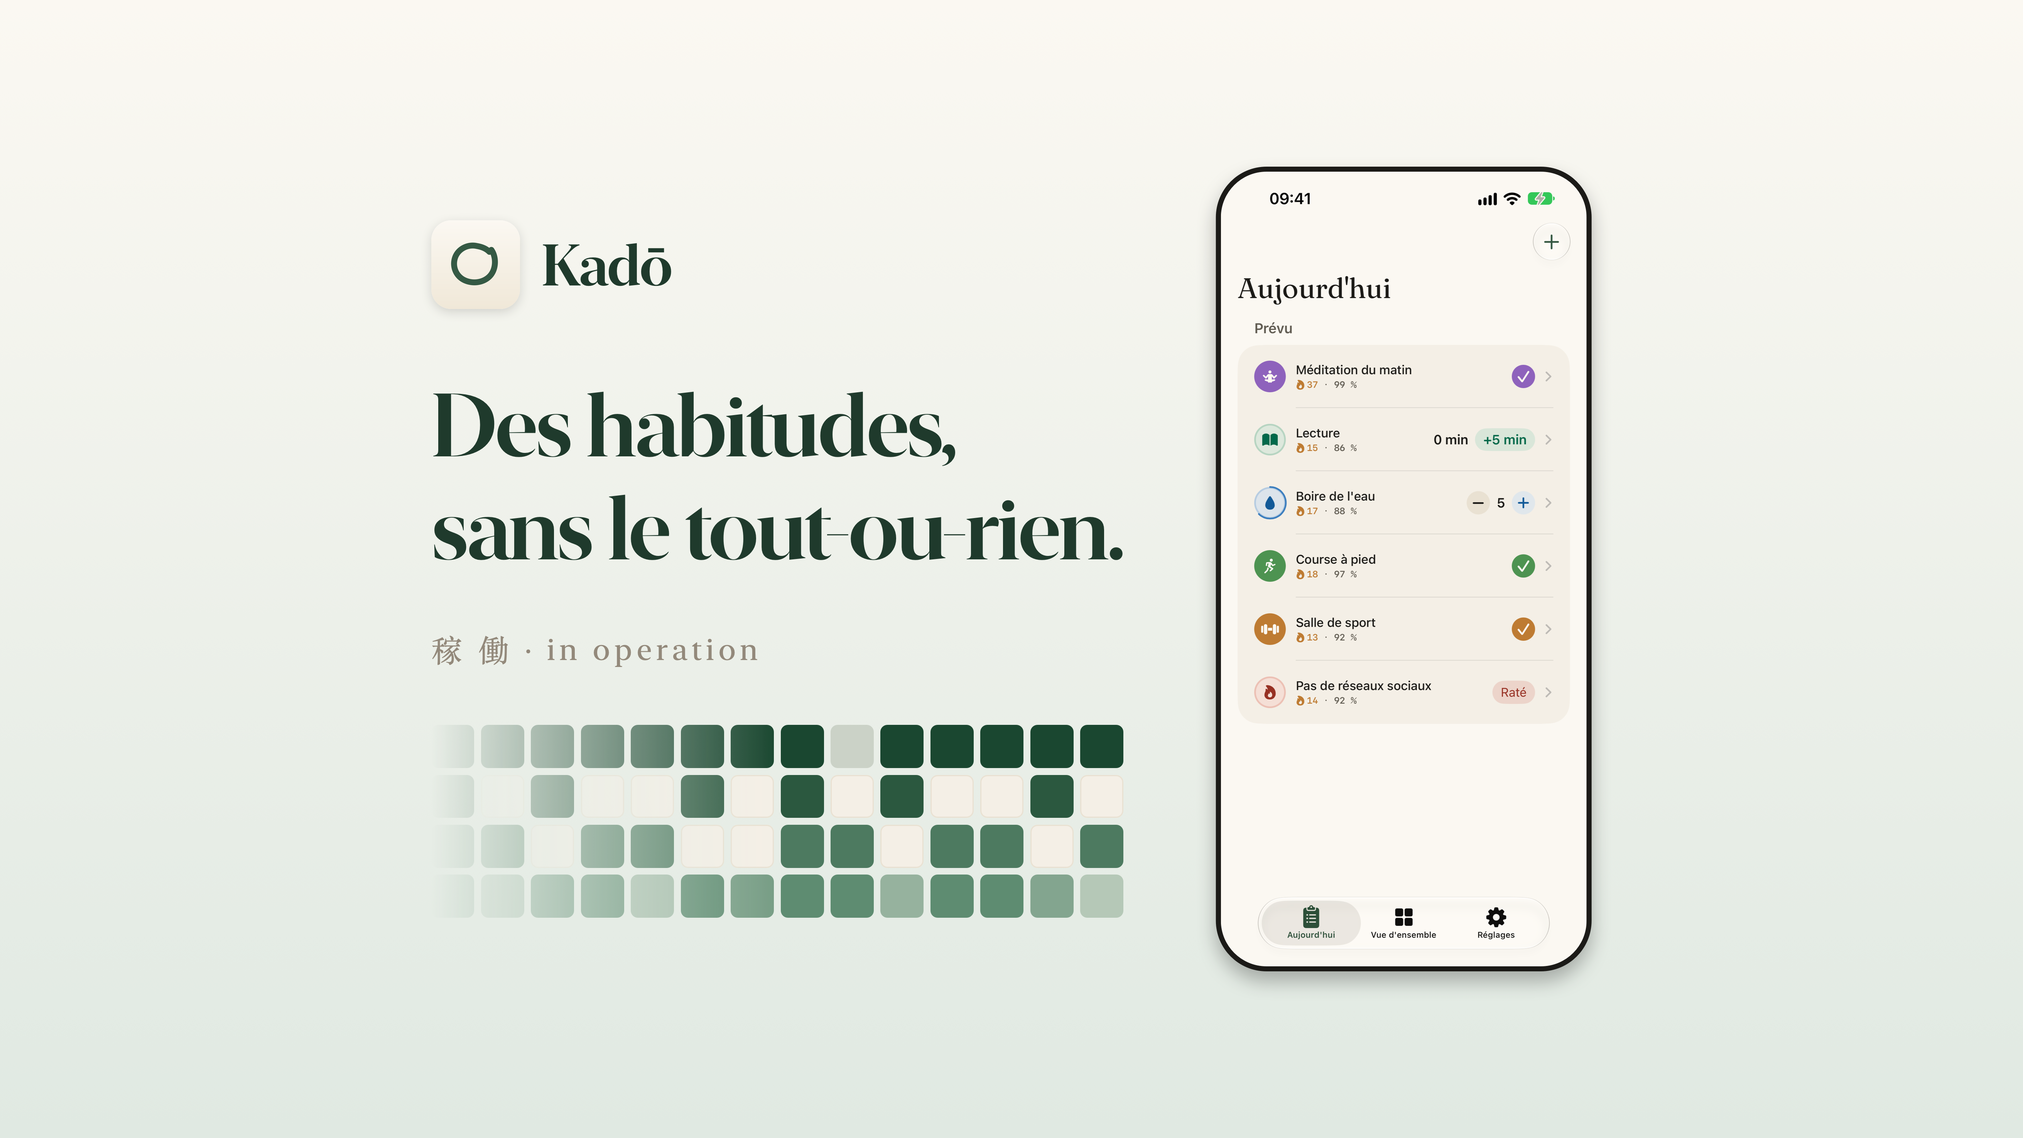
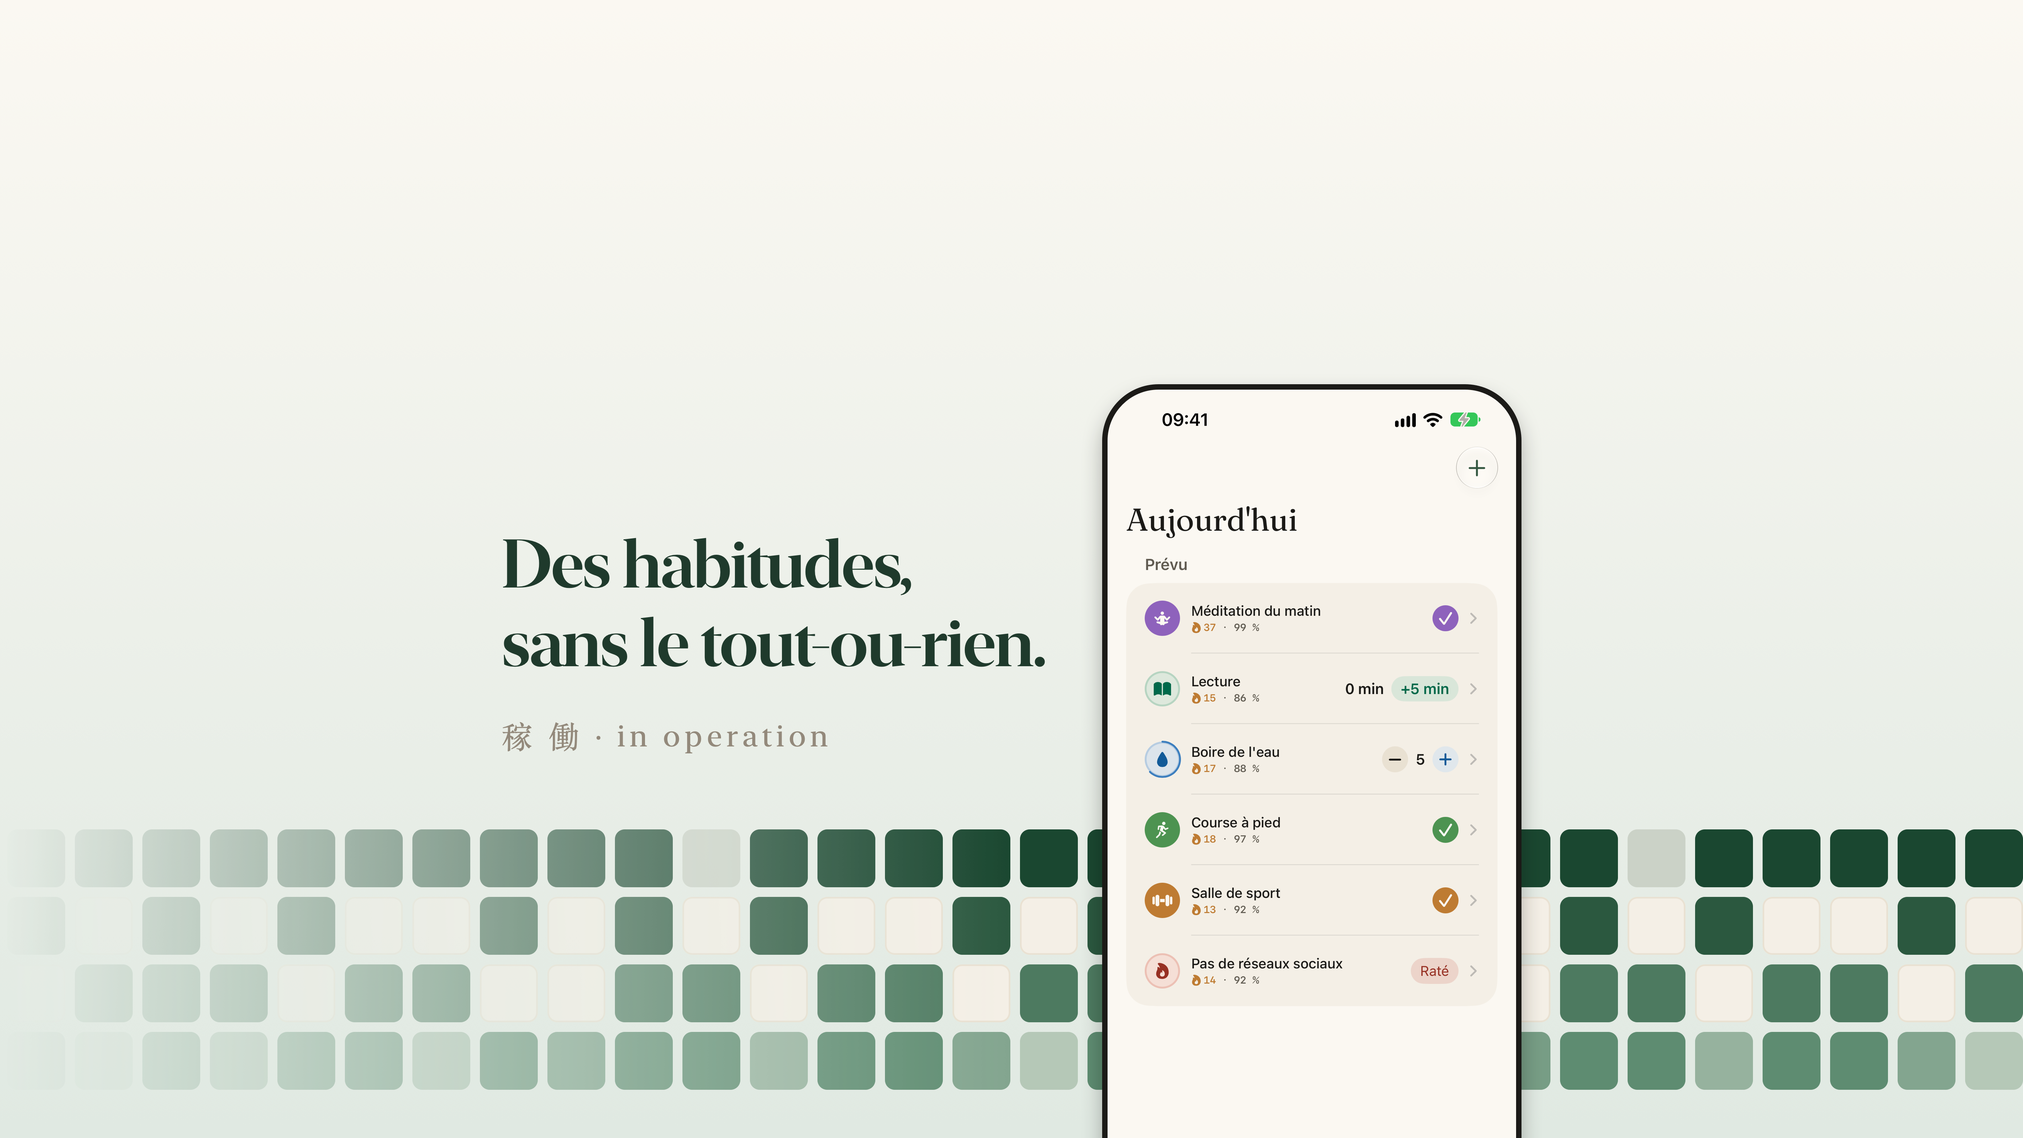
fix(listing): lay the creative out against the crops App Store Connect actually shows
The Preview tool showed the guessed 60% x 75% safe band was wrong for both
placements: search shows the whole 16:9 small, and the iPhone header shows
only a centred ~54% x 64% window whose top is under the status bar and the
back/share buttons. The header lost the headline's first letter and put
the icon lockup under the back button.

The headline now starts below the buttons inside the window's left edge,
the phone stays inside its right edge and runs off the bottom, the grid
becomes a full-width band behind both so the search placement is filled,
and the redundant icon + name lockup is gone.

Refs #131

Changed region(s): [[0.0622, 0.1247, 1.0, 1.0], [0.2176, 0.3431, 0.4662, 0.4054], [0.2176, 0.2183, 0.3419, 0.2495]]

diff --git a/Scripts/frame-screenshots.swift b/Scripts/frame-screenshots.swift
@@ -441,18 +441,31 @@ func assemble(
 // MARK: - The creative asset
 //
 // iOS 27 gives a listing two landscape slots — a header across the top of the product page and
-// a creative in search results — and one 16:9 image fills both. Apple crops it to roughly 21:9
-// for the header and roughly 3:2 for search and publishes no numbers, so everything that has to
-// survive both crops sits in `safe`, a centred band assumed to be 60% of the width and 75% of
-// the height. The ground runs edge to edge under it; nothing else is allowed outside.
+// a creative in search results — and one 16:9 image fills both. Apple publishes no crops, and
+// the two turned out to want opposite things (measured in App Store Connect's Preview tool, not
+// guessed — the first cut guessed, and lost its first letter and its logo to the header):
+//
+// - **Search results** show the whole 16:9, about 615pt wide. Whatever sits in the middle
+//   alone looks small there, so the ground has to carry something edge to edge.
+// - **The product page header**, on an iPhone, shows only a centred 3:2 window, ~54% of the
+//   width by ~64% of the height (`header`), and its top fifth sits under the status bar and the
+//   Dynamic Island, with the back and share buttons over its top corners (`headerTop`).
+//
+// So everything that must be read — the headline, the phone's screen — lives inside `header`
+// and below `headerTop`, and the grid runs the full width behind it for the search placement.
 
 enum Creative {
     /// App Store Connect's universal creative canvas: 16:9, and refused at any other size.
     static let canvas = NSSize(width: 5244, height: 2950)
-    static let safe = NSRect(
-        x: canvas.width * 0.2, y: canvas.height * 0.125,
-        width: canvas.width * 0.6, height: canvas.height * 0.75
-    )
+    /// The iPhone product page header's window onto the canvas, measured from the Preview tool:
+    /// x 1197–4047, y 531–2419 counting from the top.
+    static let header = (minX: CGFloat(1197), maxX: CGFloat(4047), top: CGFloat(531), bottom: CGFloat(2419))
+    /// Where the header stops being under the status bar (a band across its whole width)…
+    static let headerTop: CGFloat = 950
+    /// …and under its back and share buttons, two circles over its top corners that reach
+    /// further down: x 1311–1653 and 3591–3933. Text starts below this; the phone's own status
+    /// bar row may sit under the share button, which is where it sits on the Home Screen too.
+    static let headerButtonsBottom: CGFloat = 1305
 
     /// The capture the device shows — read out of each locale's captures, so the French
     /// creative shows the French app.
@@ -464,30 +477,34 @@ enum Creative {
 
     /// The phone's screen height. Its width follows the capture, and the bezel, corner and
     /// shadow follow the portrait iPhone frame in proportion, so the two read as one device.
-    static let screenHeight: CGFloat = 2060
+    /// Taller than the canvas has room for, on purpose: the phone starts just under `headerTop`
+    /// and runs off the bottom edge, which is what the header would do to it anyway, and done
+    /// deliberately it reads as a phone held up to the frame rather than one that didn't fit.
+    static let screenHeight: CGFloat = 2300
+    static let screenTop: CGFloat = 1010
+    /// The screen's right edge, inside the header window's by about a bezel and a shadow.
+    static let screenRight: CGFloat = 3930
+
+    /// The headline's left edge, inside the header window's, and its top, under the back button.
+    static let headlineLeft: CGFloat = 1300
+    static let headlineTop: CGFloat = headerButtonsBottom + 55
     static let headlineSize: CGFloat = 230
     /// Between the end of the headline's longest line and the phone.
-    static let gap: CGFloat = 240
-
-    /// The lockup over the headline: the icon and the name, so a banner seen in search results
-    /// says whose it is before it says anything else.
-    static let appName = "Kadō"
-    static let nameSize: CGFloat = 150
-    static let iconSize: CGFloat = 230
-    static let iconGap: CGFloat = 56
-    static let lockupGap: CGFloat = 170
-    /// The app's default icon, the one a first-time visitor sees beside the listing.
-    static let icon = NSImage(
-        contentsOfFile: "Kado/Resources/Assets.xcassets/AppIcon.appiconset/AppIcon.png"
-    )
+    static let gap: CGFloat = 180
 
     /// The sign-off at the foot of Settings, under the headline. Verbatim, as `SettingsView`
     /// draws it — 稼働 is brand art, not a phrase, and the app doesn't translate it either.
     static let wordmark = "稼 働 · in operation"
     static let wordmarkSize: CGFloat = 80
-    static let wordmarkGap: CGFloat = 130
-    /// From the wordmark down to the Overview grid that closes the column. See `Matrix`.
-    static let matrixGap: CGFloat = 150
+    static let wordmarkGap: CGFloat = 90
+
+    /// The Overview grid's band, the full width of the canvas: its top, and its cell in pixels.
+    /// Big enough to read as habit days in a 615pt search result, where the whole frame shows.
+    static let matrixTop: CGFloat = 2150
+    static let matrixCell: CGFloat = 150
+
+    // No icon and no name: both placements already draw the app's icon and name right beside
+    // the creative, and the first cut's lockup landed under the header's back button.
 }
 
 // MARK: - The Overview matrix, in monochrome
@@ -557,9 +574,10 @@ struct MonochromeHabit {
 /// A day in a row: a score in 0…1, or nil for a day the habit wasn't due.
 typealias MatrixDay = Double?
 
-/// Two weeks of four of the screenshot seed's habits, by their colour slots. Hand-set, not
-/// computed: mostly done, some partial, one plain miss, and the scheduled habits' off days —
-/// a grid that looks lived in and makes the headline's point, that a gap isn't a zero.
+/// Two weeks of four of the screenshot seed's habits, by their colour slots, repeated back in
+/// time to fill the band. Hand-set, not computed: mostly done, some partial, one plain miss a
+/// fortnight, and the scheduled habits' off days — a grid that looks lived in and makes the
+/// headline's point, that a gap isn't a zero.
 let creativeMatrix: [(slot: Int, days: [MatrixDay])] = [
     // No social media (red): daily, one slip.
     (0, [1, 1, 1, 1, 1, 1, 1, 1, 0, 1, 1, 1, 1, 1]),
@@ -581,24 +599,19 @@ enum Matrix {
     /// How much of the grid's width, from the left, the fade-in takes.
     static let fadeLength: CGFloat = 0.5
 
-    /// The grid's height when its width is `width`.
-    static func height(width: CGFloat) -> CGFloat {
-        let columns = CGFloat(creativeMatrix[0].days.count)
-        let rows = CGFloat(creativeMatrix.count)
-        let scale = width / (columns * cell + (columns - 1) * spacing)
-        return (rows * cell + (rows - 1) * spacing) * scale
-    }
-
-    /// Draws the grid with its top-left corner at `origin`, `width` wide.
-    static func draw(at origin: NSPoint, width: CGFloat) {
-        let columns = CGFloat(creativeMatrix[0].days.count)
-        let scale = width / (columns * cell + (columns - 1) * spacing)
-        let size = cell * scale
+    /// Draws the grid as a band across `minX…maxX` with its top at `top`, cells `size` pixels.
+    ///
+    /// As many days as fit, the most recent at the right edge — so the band reads as the
+    /// Overview's grid, today last — and each row's two weeks repeated back in time from there.
+    static func draw(minX: CGFloat, maxX: CGFloat, top: CGFloat, size: CGFloat) {
+        let scale = size / cell
         let step = (cell + spacing) * scale
         let radius = corner * scale
-        let bounds = NSRect(
-            x: origin.x, y: origin.y - height(width: width), width: width, height: height(width: width)
-        )
+        let columns = Int(((maxX - minX) + spacing * scale) / step)
+        let rows = CGFloat(creativeMatrix.count)
+        let height = rows * size + (rows - 1) * spacing * scale
+        let bounds = NSRect(x: minX, y: top - height, width: maxX - minX, height: height)
+        let origin = NSPoint(x: maxX - CGFloat(columns) * step + spacing * scale, y: top)
 
         // The grid fades out to the left, into the paper: older days recede, the way the
         // Overview's own grid runs off the screen's leading edge. Drawn into a layer and then
@@ -625,7 +638,11 @@ enum Matrix {
 
         for (row, habit) in creativeMatrix.enumerated() {
             let sage = MonochromeHabit(slot: habit.slot)
-            for (column, day) in habit.days.enumerated() {
+            let pattern = habit.days
+            for column in 0..<columns {
+                // Counted back from the right edge, so the last column is the pattern's last day.
+                let back = columns - 1 - column
+                let day = pattern[(pattern.count - 1 - back % pattern.count)]
                 let rect = NSRect(
                     x: origin.x + CGFloat(column) * step,
                     y: origin.y - CGFloat(row) * step - size,
@@ -665,81 +682,55 @@ func wordmark(_ text: String, size: CGFloat) -> NSAttributedString {
     )
 }
 
-/// The universal creative: a left-aligned headline and the Today screen in a phone, centred as
-/// one group in the safe band.
+/// The universal creative: the headline and the Settings wordmark on the left and the Today
+/// screen in a phone on the right, both inside the header window, over a full-width band of
+/// the Overview grid that fades out to the left.
 ///
 /// The phone alone, on purpose. A mock with two widget tiles leaning on its edge
 /// (`docs/plans/2026-10/listing-creative/`) repeated the list's own rows at a smaller size and
 /// covered the one marked "Slipped" — the row that *is* the headline's claim.
 func creative(capture: NSImage, caption: String, palette: Palette) -> NSBitmapImageRep {
     let canvas = Creative.canvas
-    let safe = Creative.safe
     let iphone = Profile.named(Creative.device)!
     let screenHeight = Creative.screenHeight
     let screenWidth = (screenHeight * capture.size.width / capture.size.height).rounded()
     let bezel = (iphone.bezel * screenWidth / (iphone.canvas.width * iphone.screenWidthFraction))
         .rounded()
+    // The context is unflipped; the layout constants count from the top, like the measurements.
+    let fromTop = { (y: CGFloat) in canvas.height - y }
 
     return ground(canvas, palette: palette) {
-        let lines = caption.components(separatedBy: "\n")
-        let phoneWidth = screenWidth + bezel * 2
-        let headlineSize = fitted(
-            lines, size: Creative.headlineSize, color: palette.headline,
-            within: safe.width - Creative.gap - phoneWidth
+        // The grid first, so the phone stands in front of it.
+        Matrix.draw(
+            minX: 0, maxX: canvas.width, top: fromTop(Creative.matrixTop),
+            size: Creative.matrixCell
         )
-        let texts = lines.map { attributed($0, size: headlineSize, color: palette.headline) }
-        let name = attributed(Creative.appName, size: Creative.nameSize, color: palette.headline)
-        let mark = wordmark(Creative.wordmark, size: Creative.wordmarkSize)
-        let iconSize = Creative.iconSize
-        let lockupWidth = iconSize + Creative.iconGap + name.size().width
-        let columnWidth = max(
-            texts.map { $0.size().width }.max() ?? 0, lockupWidth, mark.size().width
-        )
-
-        // The text column, three tiers stacked top-down and centred as a block against the
-        // phone: who it is, what it believes, and the app's own sign-off from the foot of
-        // Settings.
-        let lineHeight = headlineSize * 1.16
-        let headlineHeight = lineHeight * CGFloat(lines.count)
-        let markHeight = mark.size().height
-        let matrixHeight = Matrix.height(width: columnWidth)
-        let columnHeight = iconSize + Creative.lockupGap + headlineHeight
-            + Creative.wordmarkGap + markHeight + Creative.matrixGap + matrixHeight
-
-        // One group, centred: the crops are centred, so a group that is centred survives both
-        // of them by the same margin on either side.
-        let left = ((canvas.width - columnWidth - Creative.gap - phoneWidth) / 2).rounded()
-        var top = ((canvas.height + columnHeight) / 2).rounded()
-
-        if let icon = Creative.icon {
-            let rect = NSRect(x: left, y: top - iconSize, width: iconSize, height: iconSize)
-            // The icon's own corner, as the Home Screen masks it. The PNG is square; iOS
-            // supplies the shape.
-            let radius = iconSize * 0.2237
-            slab(rect, radius: radius, color: palette.top, shadowOffset: 8, shadowBlur: 28, shadowAlpha: 0.14)
-            draw(icon, in: rect, radius: radius)
-        }
-        // The name's cap height centred on the icon, not its line box, which carries the
-        // descender space a word with no descenders doesn't use.
-        let font = headlineFont(Creative.nameSize)
-        let nameBaseline = top - iconSize / 2 - font.capHeight / 2
-        name.draw(at: NSPoint(x: left + iconSize + Creative.iconGap, y: nameBaseline + font.descender))
-        top -= iconSize + Creative.lockupGap
-
-        for (index, text) in texts.enumerated() {
-            text.draw(at: NSPoint(x: left, y: top - lineHeight * CGFloat(index + 1)))
-        }
-        top -= headlineHeight + Creative.wordmarkGap
-        mark.draw(at: NSPoint(x: left, y: top - markHeight))
-        top -= markHeight + Creative.matrixGap
-        Matrix.draw(at: NSPoint(x: left, y: top), width: columnWidth)
 
         let screen = NSRect(
-            x: left + columnWidth + Creative.gap + bezel,
-            y: ((canvas.height - screenHeight) / 2).rounded(),
+            x: Creative.screenRight - screenWidth,
+            y: fromTop(Creative.screenTop) - screenHeight,
             width: screenWidth,
             height: screenHeight
         )
+
+        // The headline, left-aligned from inside the header window's left edge, sized to stop
+        // `gap` short of the phone.
+        let lines = caption.components(separatedBy: "\n")
+        let headlineSize = fitted(
+            lines, size: Creative.headlineSize, color: palette.headline,
+            within: screen.minX - bezel - Creative.gap - Creative.headlineLeft
+        )
+        let lineHeight = headlineSize * 1.16
+        var top = fromTop(Creative.headlineTop)
+        for line in lines {
+            top -= lineHeight
+            attributed(line, size: headlineSize, color: palette.headline)
+                .draw(at: NSPoint(x: Creative.headlineLeft, y: top))
+        }
+        let mark = wordmark(Creative.wordmark, size: Creative.wordmarkSize)
+        top -= Creative.wordmarkGap + mark.size().height
+        mark.draw(at: NSPoint(x: Creative.headlineLeft, y: top))
+
         let screenRadius = screenWidth * iphone.cornerFraction
         slab(
             screen.insetBy(dx: -bezel, dy: -bezel),

diff --git a/docs/app-store/README.md b/docs/app-store/README.md
@@ -85,9 +85,17 @@ The widget views themselves live in `KadoCore` so the app can draw them; the ext
 
 On iOS 27 a listing has two landscape slots — a header across the top of the product page and a creative in search results — and one **universal** 16:9 image fills both. `make frames` draws it per locale into `marketing/<locale>/creative/universal.png`: **5244×2950, PNG, no alpha channel**. App Store Connect refuses any other size, and refuses alpha outright, even an alpha channel that is opaque everywhere, so the frame writes it through a no-alpha bitmap rather than the RGBA one the screenshots use. `make listing-check` checks all three.
 
-It is the same ground and the same Fraunces as the screenshots, laid out sideways: a text column beside that locale's iPhone `01-today` capture in a phone. The column has four tiers: the app icon and "Kadō", so a banner in search results says whose it is first; the `creative-universal` headline from `captions.json`; `稼 働 · in operation`, the wordmark from the foot of Settings, set as `SettingsView` sets it and left untranslated, as the app leaves it; and two weeks of the Overview grid in the monochrome sage theme. The grid is drawn, not cropped, because no capture shows the monochrome theme. Its cells are mixed in Oklab exactly as `MatrixCell` mixes them, and its rows are hand-set in `creativeMatrix`. It fades into the paper over the left half of its width (`Matrix.fadeLength`), so older days recede. The fade is masked with alpha while drawing; the written PNG is still flattened with no alpha. Nothing in it is new artwork, so a recapture, a new default icon or a reworded headline carries through on the next `make frames`. The layout is `Creative` in `Scripts/frame-screenshots.swift`.
+It is the same ground and the same Fraunces as the screenshots, laid out sideways. On the left are the `creative-universal` headline from `captions.json` and `稼 働 · in operation`, the wordmark from the foot of Settings, set as `SettingsView` sets it and left untranslated, as the app leaves it. On the right is that locale's iPhone `01-today` capture in a phone that runs off the bottom edge. Behind both, across the full width, is a band of the Overview grid in the monochrome sage theme. There is no icon or name: both placements draw the app's own icon and name right beside the creative. The grid is drawn, not cropped, because no capture shows the monochrome theme. Its cells are mixed in Oklab exactly as `MatrixCell` mixes them, and its rows are hand-set in `creativeMatrix`. It fades into the paper over the left half of its width (`Matrix.fadeLength`), so older days recede. The fade is masked with alpha while drawing; the written PNG is still flattened with no alpha. Nothing in it is new artwork, so a recapture or a reworded headline carries through on the next `make frames`. The layout is `Creative` in `Scripts/frame-screenshots.swift`.
 
-**The safe band.** Apple crops the 16:9 to roughly 21:9 for the header and roughly 3:2 for search, and publishes no numbers. The headline and the phone are one group, centred, inside an assumed band of the middle 60% of the width and 75% of the height; only the ground runs outside it. Confirm the real crops in App Store Connect's **Preview** tool (iPhone and iPad, both orientations) after any change to the layout.
+**The crops, as measured.** Apple publishes no numbers, and the first cut's guess (a centred 60% × 75% band) was wrong for both placements. App Store Connect's **Preview** tool showed:
+
+- **Search results:** the whole 16:9, about 615pt wide. Anything confined to the middle reads small there, which is why the grid runs edge to edge.
+- **The iPhone product page header:** a centred 3:2 window of only ~54% × 64% of the canvas (x 1197–4047, y 531–2419, from the top).
+  - The status bar and Dynamic Island cover its top fifth (to y ≈ 950).
+  - The back and share buttons cover its top corners further down (to y ≈ 1305, at x 1311–1653 and 3591–3933).
+  - So the headline starts below the buttons, inside the window's left edge, and the phone's screen stays inside its right edge.
+
+The layout constants in `Creative` are these numbers. Re-check in the Preview tool after any layout change, on iPhone and iPad.
 
 Why the phone alone, and not the phone with widget tiles beside it: `docs/plans/2026-10/listing-creative/` has both mocks. The tiles repeated the list's rows at a smaller size and covered the "Slipped" row, which is the one that makes the headline's point.
 
